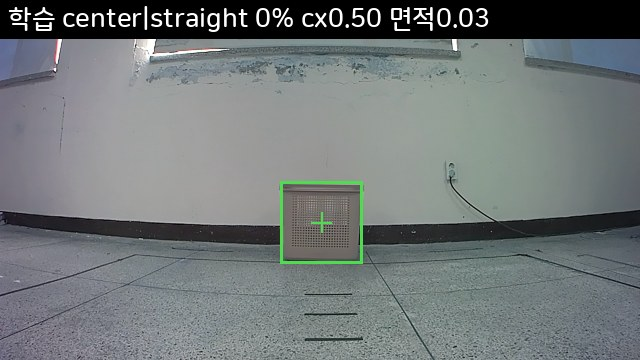
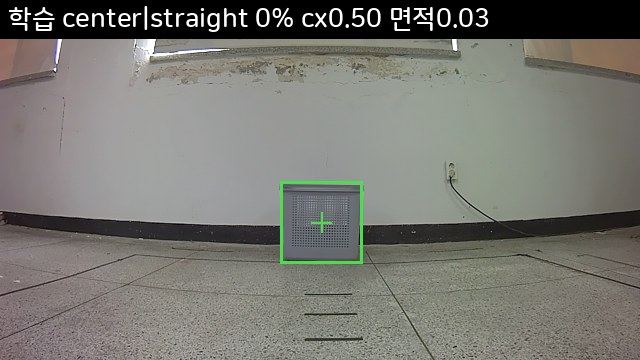
fix(docs): 학습 H5는 BGR 저장(전처리에서 변환) — 바구니 색 차이는 표시 오류였음, 정정. 사진 페이지 재생성

diff --git a/docs/v5/egvla2_fm/live_vs_train.html b/docs/v5/egvla2_fm/live_vs_train.html
@@ -1,8 +1,8 @@
 <!doctype html><html lang="ko"><head><meta charset="utf-8"><meta name="viewport" content="width=device-width,initial-scale=1"><title>Live vs Train photos</title>
 <style>body{margin:0;background:#0b1220;color:#e2e8f0;font-family:-apple-system,"Noto Sans KR",sans-serif;line-height:1.6}.w{max-width:1100px;margin:0 auto;padding:24px 16px 60px}h1{font-size:1.5rem}h2{margin-top:34px;border-bottom:2px solid #334155;padding-bottom:6px}
 .g{display:grid;grid-template-columns:repeat(auto-fill,minmax(320px,1fr));gap:10px}.g img{width:100%;border-radius:6px;border:1px solid #334155}.n{color:#94a3b8;font-size:.86rem}a{color:#60a5fa}table{border-collapse:collapse;font-size:.9rem}td,th{border:1px solid #334155;padding:6px 10px}</style></head><body><div class="w">
-<h1>학습 프레임 vs 실기 프레임 — 실제 사진 비교</h1><div class="n">2026-10-23 · 분석: docs/plans/analysis_20261023_train_serve_gap.md · 빨간 상자/초록 상자 = Florence-2 bbox(면적에서 환산한 근사 크기)</div>
-<h2>1. 같은 구도 비교 — 위: 학습(베이지 바구니, 평평한 흰 벽) / 실기는 아래 3절</h2><div class="g">
+<h1>학습 프레임 vs 실기 프레임 — 실제 사진 비교 (학습은 H5의 BGR을 RGB로 변환해 표시)</h1><div class="n">2026-10-23 · 분석: docs/plans/analysis_20261023_train_serve_gap.md · 빨간 상자/초록 상자 = Florence-2 bbox(면적에서 환산한 근사 크기)</div>
+<h2>1. 학습 프레임(BGR→RGB 변환) — 실기는 아래 3절</h2><div class="g">
 <div><img src="live_vs_train_photos/train_weak_right_straight_0.jpg" loading="lazy"></div>
 <div><img src="live_vs_train_photos/train_weak_right_straight_50.jpg" loading="lazy"></div>
 <div><img src="live_vs_train_photos/train_weak_right_straight_95.jpg" loading="lazy"></div>
@@ -12,8 +12,8 @@
 <div><img src="live_vs_train_photos/train_center_straight_0.jpg" loading="lazy"></div>
 <div><img src="live_vs_train_photos/train_center_straight_50.jpg" loading="lazy"></div>
 <div><img src="live_vs_train_photos/train_center_straight_95.jpg" loading="lazy"></div>
-</div><h2>2. 바구니 확대 — 색이 다르다</h2>
-<img src="live_vs_train_photos/basket_crops.jpg" style="max-width:740px;width:100%;border-radius:6px"><div class="n">바구니 중심 패치 평균 RGB: 학습 (122,117,112) R−B=+10.6 / 실기 (107,110,111) R−B=−4.2</div>
+</div><h2>2. 바구니 확대 비교</h2>
+<img src="live_vs_train_photos/basket_crops.jpg" style="max-width:740px;width:100%;border-radius:6px"><div class="n">바구니 중심 패치 평균 RGB(학습은 BGR→RGB 변환 후): 학습 (112,117,122) R−B=−10.6 / 실기 (107,110,111) R−B=−4.2 → 색 계열 같음</div>
 <h2>3. 실기 이탈 타임라인 — 세션 210745 (타깃 오른쪽 → 회전 → 직진 중 cx가 화면 밖으로)</h2><div class="g">
 <div><img src="live_vs_train_photos/live_20261022_210745_0.jpg" loading="lazy"></div>
 <div><img src="live_vs_train_photos/live_20261022_210745_1.jpg" loading="lazy"></div>

diff --git a/scripts/make_live_vs_train_page.py b/scripts/make_live_vs_train_page.py
@@ -46,7 +46,7 @@ def main():
         with h5py.File(T.DATA / e["name"], "r") as f:
             for frac in (0.0, 0.5, 0.95):
                 t = min(int(frac * (n - 1)), n - 1); b = e["bbox"][t][8:12]
-                sec1.append((cell, frac, save(card(f["images"][t], f"학습 {cell} {int(frac*100)}% cx{b[0]:.2f} 면적{b[2]:.2f}", b, (80, 220, 80)), f"train_{cell.replace('|','_')}_{int(frac*100)}.jpg")))
+                sec1.append((cell, frac, save(card(np.ascontiguousarray(f["images"][t][:, :, ::-1]), f"학습 {cell} {int(frac*100)}% cx{b[0]:.2f} 면적{b[2]:.2f}", b, (80, 220, 80)), f"train_{cell.replace('|','_')}_{int(frac*100)}.jpg")))
     sid = "20261022_210745"
     rep = json.load(open(ROOT / f"ROS_action/dryrun_closedloop_20261022/reports/session_{sid}.json"))["history"]
     with h5py.File(ROOT / f"ROS_action/dryrun_closedloop_20261022/h5/session_{sid}.h5", "r") as f:
@@ -69,19 +69,19 @@ def main():
         lc = Image.fromarray(crop(im[t], gb[t])).resize((360, 360))
     e = pick["weak_right|straight"]; t0 = len(e["bbox"]) // 2
     with h5py.File(T.DATA / e["name"], "r") as f:
-        tc = Image.fromarray(crop(f["images"][t0], e["bbox"][t0][8:12])).resize((360, 360))
+        tc = Image.fromarray(np.ascontiguousarray(crop(f["images"][t0], e["bbox"][t0][8:12])[:, :, ::-1])).resize((360, 360))
     both = Image.new("RGB", (740, 400), (20, 20, 20)); both.paste(tc, (10, 30)); both.paste(lc, (380, 30)); d = ImageDraw.Draw(both)
-    d.text((10, 0), "학습 바구니(베이지)", fill=(255, 255, 255), font=FONT); d.text((380, 0), "실기 바구니(청회색)", fill=(255, 255, 255), font=FONT)
+    d.text((10, 0), "학습 바구니(BGR→RGB 변환 후)", fill=(255, 255, 255), font=FONT); d.text((380, 0), "실기 바구니", fill=(255, 255, 255), font=FONT)
     crops = save(both, "basket_crops.jpg")
     st = json.load(open(OUT / "live_vs_train.json"))
     html = ['<!doctype html><html lang="ko"><head><meta charset="utf-8"><meta name="viewport" content="width=device-width,initial-scale=1"><title>Live vs Train photos</title>',
             '<style>body{margin:0;background:#0b1220;color:#e2e8f0;font-family:-apple-system,"Noto Sans KR",sans-serif;line-height:1.6}.w{max-width:1100px;margin:0 auto;padding:24px 16px 60px}h1{font-size:1.5rem}h2{margin-top:34px;border-bottom:2px solid #334155;padding-bottom:6px}',
             '.g{display:grid;grid-template-columns:repeat(auto-fill,minmax(320px,1fr));gap:10px}.g img{width:100%;border-radius:6px;border:1px solid #334155}.n{color:#94a3b8;font-size:.86rem}a{color:#60a5fa}table{border-collapse:collapse;font-size:.9rem}td,th{border:1px solid #334155;padding:6px 10px}</style></head><body><div class="w">',
-            '<h1>학습 프레임 vs 실기 프레임 — 실제 사진 비교</h1><div class="n">2026-10-23 · 분석: docs/plans/analysis_20261023_train_serve_gap.md · 빨간 상자/초록 상자 = Florence-2 bbox(면적에서 환산한 근사 크기)</div>',
-            '<h2>1. 같은 구도 비교 — 위: 학습(베이지 바구니, 평평한 흰 벽) / 실기는 아래 3절</h2><div class="g">']
+            '<h1>학습 프레임 vs 실기 프레임 — 실제 사진 비교 (학습은 H5의 BGR을 RGB로 변환해 표시)</h1><div class="n">2026-10-23 · 분석: docs/plans/analysis_20261023_train_serve_gap.md · 빨간 상자/초록 상자 = Florence-2 bbox(면적에서 환산한 근사 크기)</div>',
+            '<h2>1. 학습 프레임(BGR→RGB 변환) — 실기는 아래 3절</h2><div class="g">']
     for cell, frac, p in sec1:
         html.append(f'<div><img src="{p}" loading="lazy"></div>')
-    html += ['</div><h2>2. 바구니 확대 — 색이 다르다</h2>', f'<img src="{crops}" style="max-width:740px;width:100%;border-radius:6px"><div class="n">바구니 중심 패치 평균 RGB: 학습 (122,117,112) R−B=+10.6 / 실기 (107,110,111) R−B=−4.2</div>',
+    html += ['</div><h2>2. 바구니 확대 비교</h2>', f'<img src="{crops}" style="max-width:740px;width:100%;border-radius:6px"><div class="n">바구니 중심 패치 평균 RGB(학습은 BGR→RGB 변환 후): 학습 (112,117,122) R−B=−10.6 / 실기 (107,110,111) R−B=−4.2 → 색 계열 같음</div>',
              '<h2>3. 실기 이탈 타임라인 — 세션 210745 (타깃 오른쪽 → 회전 → 직진 중 cx가 화면 밖으로)</h2><div class="g">']
     for s, p in sec3:
         html.append(f'<div><img src="{p}" loading="lazy"></div>')

diff --git a/docs/plans/analysis_20261023_train_serve_gap.md b/docs/plans/analysis_20261023_train_serve_gap.md
@@ -16,17 +16,19 @@
 | 타깃 cx 평균 | 0.483 | 0.574 |
 → 실기 프레임의 중앙값 유사도가 학습 보류 에피소드의 하위 10%와 같다. 절대 차이는 작아 보이지만(풀링 특징이라 공통 성분이 큼) 분포 이동은 분명하다.
 
-## 3. 눈으로 본 차이 (그림: `docs/v5/egvla2_fm/figures/compare_train_live_20261022.png`, 위=학습, 아래=실기)
-- **바구니 색**: 학습 바구니 중심 패치 RGB (122, 117, 112) R−B=+10.6(베이지), 실기 (107, 110, 111) R−B=−4.2(청회색). 같은 'gray basket' 프롬프트로 검출은 되지만 **물체 외형이 다르다**(색·크기·형태).
-- **배경**: 실기 프레임에는 오른쪽에 흰 패널 벽과 책상·장비가 보임(학습 프레임은 평평한 흰 벽과 바닥뿐). 타깃이 가까워질수록 이 방해물이 시야에 들어온다.
-- 전체 평균 색(학습 B/R 1.046 vs 실기 0.945)은 배경 조명 차이도 시사.
+## 3. 눈으로 본 차이 — ⚠ 정정(2026-10-23): '바구니 색이 다르다'는 내 표시 오류였다
+처음 비교 그림은 학습 H5의 `images`(수집 코드가 **BGR로 저장**, `mona_dashboard` 뷰어 주석에도 명시)를 RGB로 변환하지 않고 그대로 그려서 학습 쪽 색이 반전돼 보였다(베이지 바구니·푸른 바닥). **학습 파이프라인은 정상**: `precompute_*`가 `im[:, :, ::-1]`로 BGR→RGB 변환 후 Florence-2에 넣고, 서빙 점검 스크립트도 같은 변환을 쓴다. 변환 후 비교:
+- 바구니 중심 패치 RGB: 학습 (112, 117, 122) R−B=−10.6 / 실기 (107, 110, 111) R−B=−4.2 → **같은 청회색 바구니**.
+- 전체 평균 B/R: 학습 0.956 / 실기 0.945 → 색 계열 같음.
+- **남는 차이**: ① 바닥 — 학습은 어두운 점박이 석재, 실기는 더 밝은 타일 줄눈(바닥 영역 평균 RGB 학습 (123,120,114) vs 실기 (137,134,127), 실기가 약 12% 밝음: 조명·노출 또는 바닥 차이) ② 접근 거리 — 실기 타깃이 더 작고(면적 0.034 vs 0.059) 10%에서 bbox 소실 ③ 방해물(책상·패널)은 학습 프레임에도 보여서 새로운 요인이 아님.
+- 그림: `docs/v5/egvla2_fm/live_vs_train.html`(변환 반영본).
 
 ## 4. 로봇 세션의 가설 점검: "EMA가 반응성을 죽인다"
 DRIVE 324스텝의 모델 raw 방향각(atan2(ly,lx)): 평균 −35°, 중앙값 **−48°**, 분위 10/90 = −56°/+40°. **cx와의 Spearman −0.07**(cx 구간별 평균각 −21~−41°). 즉 raw 자체가 타깃 위치와 무관하게 거의 같은 대각선(전진+좌 strafe)이다. 최종 action이 평탄한 이유는 EMA가 아니라 **단위 방향 정규화(크기 정보 폐기)·gain 1.15·속도 0.7 고정**이라는 설계 때문이고, EMA를 꺼도 방향각은 거의 안 바뀐다(EMA off 재시험은 싸지만 우선순위 낮음).
 이는 CH77의 오프라인 결과(방향이 bbox cx보다 경로 의도에 의해 결정, Spearman ≈ −0.07~−0.21)와 일치한다: **모델은 타깃 서보가 아니라 경로 의도를 재생한다.**
 
 ## 5. 시사점·다음 액션
-1. **실기 장면을 학습과 맞춰 재시험**: 같은 베이지 바구니, 같은 배경(흰 벽 앞, 방해물 제거)에서 같은 모델로 다시 20회. 맞추면 DRIVE 이탈이 줄어드는지로 '외형 이동' 효과를 직접 분리.
-2. **새 바구니·장면 데이터 수집**: 청회색 바구니와 현재 배경으로 소량(위치당 5~10) 수집해 미세조정 가능성 확인(데이터량 곡선상 같은 조건 반복보다 **조건 다양화**가 효과적).
+1. 물체 외형(색)은 문제 아님. **분포 이동의 정체는 바닥·조명·접근 거리**로 보이며 크기는 작다(NN 코사인 차 0.004). 그라운딩 소실(10%)은 이동 경로가 학습보다 화면 밖으로 치우치는 것이 주 원인으로 추정(가설).
+2. **조건 다양화 수집**(다른 바닥·조명·시작 위치)과 **타깃 서보 항**이 학습 데이터 반복보다 효과적일 것으로 예상(데이터량 곡선·경로 의도 분석 근거).
 3. **서보 항**(cx 피드백 strafe 보정)과 비례 회전은 모델 외부 규칙으로 별도 비교군(분석 문서 `analysis_20261023_rotation_physical_motion.md`).
 4. 로그: 이미 받은 세션 JSON·H5로 충분. 다음 세션부터는 **장면 설명 필드**(바구니 색·배경 상태)를 에피소드 메타에 추가하면 이후 분석이 쉬워진다.
